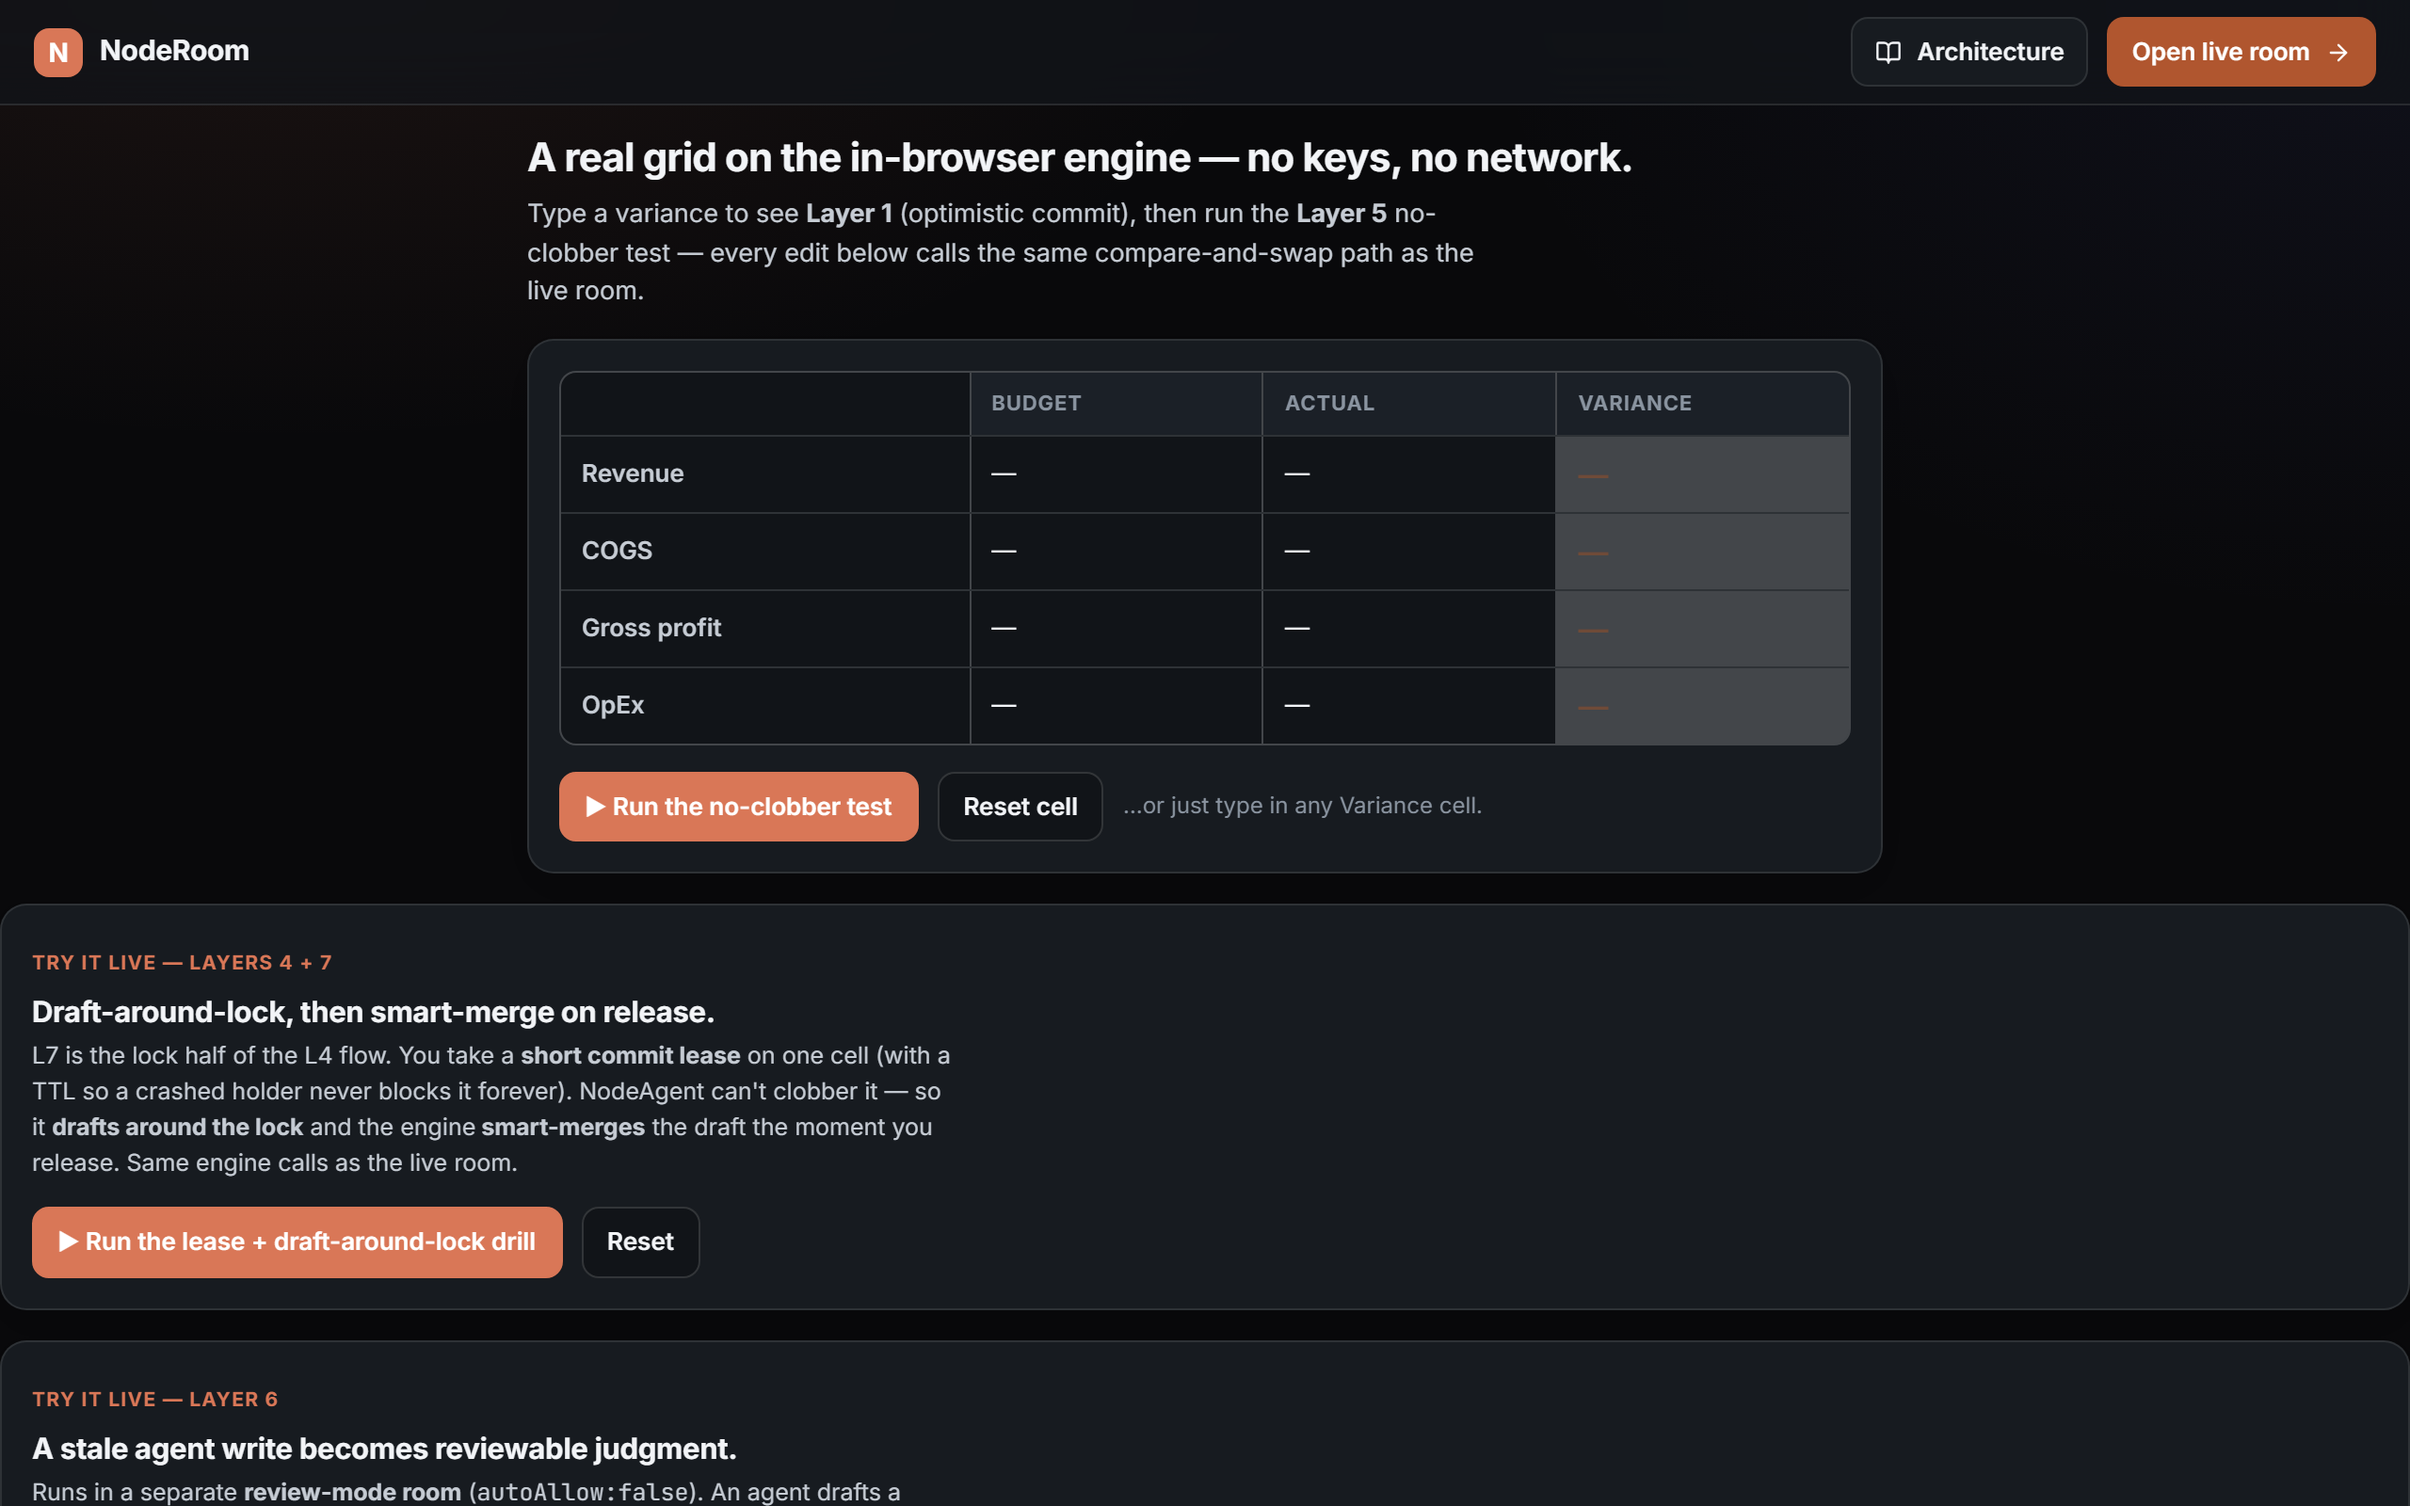
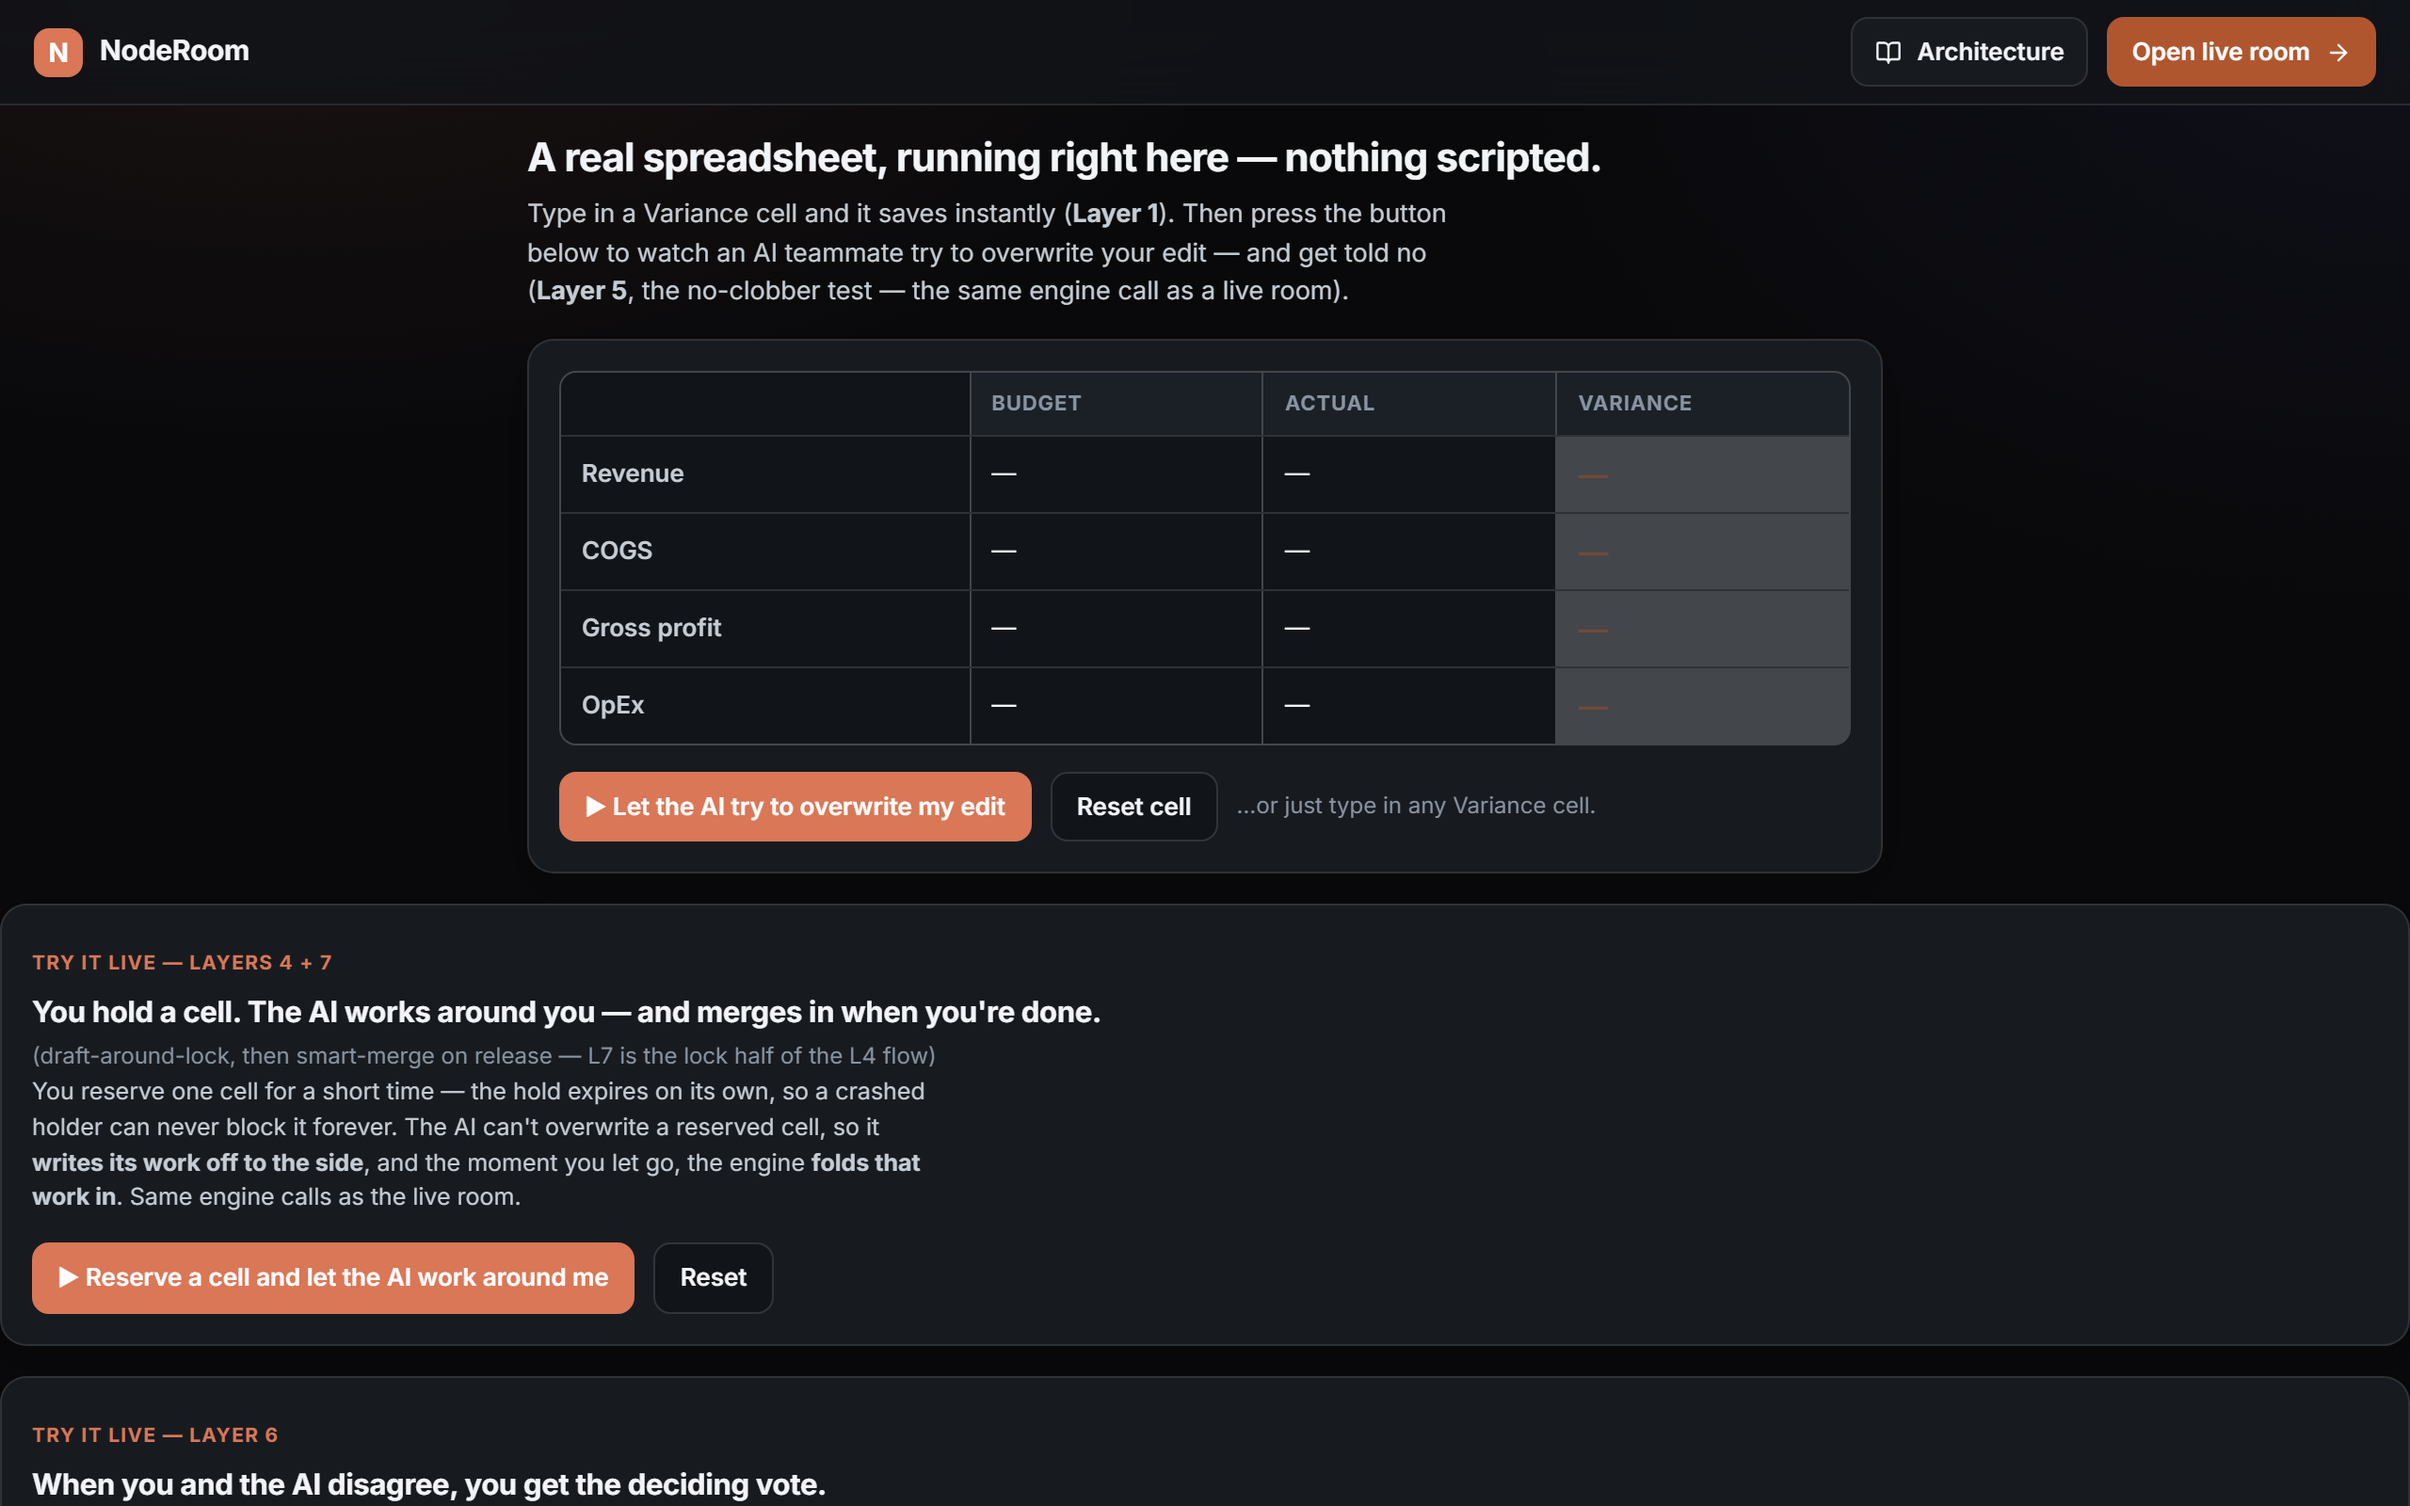
noderoom: mom passes — the chain from jargon to shippable, every link measured
The final loop: recaptured the walkthrough against noderoom's merged plain-words
copy, ran the three-gate pipeline, and the boundary-escalated judge returned

  craft 20/22 · comprehension 16/20 · mom PASSES (3-run majority)
  gate 1: -16.6 dB · gate 2: 97% of 75 distinct words heard · SHIPPABLE

Five cuts blocked before this one, and each block located the next lever:

  1  jargon captions            -> mom-words script       (persona 0->1, non-expert 0->1)
  2  jargon spoken aloud        -> explaining it changed nothing measurable
  3  voice swap                 -> changed nothing — not a delivery problem
  4  product button/log text    -> plain-words copy merged into noderoom
  5  one remaining token in the review chip
                                -> chip says it in words; the literal token
                                   stays in the step log, so the e2e assertion
                                   held without touching a test

The pass came from a product change the video layer could never make, which
five blocked cuts proved before any code in the product moved. The gate never
shipped an intermediate cut, and the thing that finally cleared it was words.

Mechanics that made the loop possible in one session:
  WT_ONLY=<id> on the capturer — one walkthrough recaptured against its own
  dev server without wiping the other walkthroughs' frames (the global wipe
  only runs on a full capture).
  Spec selectors updated to the renamed buttons BEFORE capturing, audited
[…]

diff --git a/src/walkthrough.data.js b/src/walkthrough.data.js
@@ -16,198 +16,62 @@ export const WALKTHROUGHS = [
         "caption": "If your team lives in a spreadsheet, this is for you: an AI helper that cannot wreck your numbers.",
         "cursor": null,
         "click": false,
-        "hold": 179
+        "hold": 168
       },
       {
         "img": "wt/NodeRoom/01.png",
         "caption": "You change one number. The AI checks it. Only that one cell changes — nothing else moves.",
         "cursor": null,
         "click": false,
-        "hold": 178
+        "hold": 157
       },
       {
         "img": "wt/NodeRoom/02.png",
-        "caption": "That button — the no-clobber test — just means: the AI tries to overwrite your edit, and gets told no. Your number stays yours.",
+        "caption": "Press the button: the AI tries to overwrite your edit — and gets told no.",
         "cursor": {
-          "x": 392,
+          "x": 422,
           "y": 428
         },
         "click": true,
-        "hold": 262
+        "hold": 136
       },
       {
         "img": "wt/NodeRoom/03.png",
         "caption": "When you and the AI disagree, you see both versions side by side. Nothing is lost.",
         "cursor": null,
         "click": false,
-        "hold": 167
+        "hold": 158
       },
       {
         "img": "wt/NodeRoom/04.png",
-        "caption": "Lock a cell while you think. On screen it is called draft-around-lock: the AI works around you and waits its turn.",
+        "caption": "Reserve a cell while you think. The AI works around you and waits its turn.",
         "cursor": null,
         "click": false,
-        "hold": 199
+        "hold": 130
       },
       {
         "img": "wt/NodeRoom/05.png",
-        "caption": "If the AI's copy is out of date, its change becomes a suggestion you approve — never a surprise.",
+        "caption": "A late AI edit becomes a suggestion you approve — never a surprise.",
         "cursor": null,
         "click": false,
-        "hold": 192
+        "hold": 125
       },
       {
         "img": "wt/NodeRoom/06.png",
         "caption": "You tap approve. The change lands on today's numbers, not yesterday's.",
         "cursor": {
           "x": 109,
-          "y": 748
+          "y": 644
         },
         "click": true,
-        "hold": 131
+        "hold": 120
       },
       {
         "img": "wt/NodeRoom/07.png",
         "caption": "Nothing changes your sheet without being seen first. That is the whole promise.",
         "cursor": null,
         "click": false,
-        "hold": 139
-      }
-    ]
-  },
-  {
-    "id": "NodeRoomFresh",
-    "title": "NodeRoom — from landing to a room",
-    "accent": "#E0653A",
-    "chromeUrl": "noderoom.app",
-    "scales": {
-      "action": 1,
-      "result": 1,
-      "open": 1
-    },
-    "steps": [
-      {
-        "img": "wt/NodeRoomFresh/00.png",
-        "caption": "A fresh visitor lands — a live agent room, source-backed, join by code",
-        "cursor": null,
-        "click": false,
-        "hold": 92
-      },
-      {
-        "img": "wt/NodeRoomFresh/01.png",
-        "caption": "Start a room",
-        "cursor": {
-          "x": 193,
-          "y": 570
-        },
-        "click": true,
-        "hold": 62
-      },
-      {
-        "img": "wt/NodeRoomFresh/02.png",
-        "caption": "One question before anything else: how should agent edits land?",
-        "cursor": null,
-        "click": false,
-        "hold": 106
-      },
-      {
-        "img": "wt/NodeRoomFresh/03.png",
-        "caption": "Or join with a code — a room shares a code, not a seat",
-        "cursor": null,
-        "click": false,
-        "hold": 88
-      },
-      {
-        "img": "wt/NodeRoomFresh/04.png",
-        "caption": "Try the sample",
-        "cursor": {
-          "x": 212,
-          "y": 560
-        },
-        "click": true,
-        "hold": 60
-      },
-      {
-        "img": "wt/NodeRoomFresh/05.png",
-        "caption": "The sample tells you it is synthetic — not live research",
-        "cursor": null,
-        "click": false,
-        "hold": 104
-      }
-    ]
-  },
-  {
-    "id": "NodeSlide",
-    "title": "NodeSlide — decks that stay editable",
-    "accent": "#3E6FF0",
-    "chromeUrl": "nodeslide.app",
-    "scales": {
-      "action": 1,
-      "result": 1,
-      "open": 1
-    },
-    "steps": [
-      {
-        "img": "wt/NodeSlide/00.png",
-        "caption": "Start from an idea, a spec, or evidence",
-        "cursor": {
-          "x": 640,
-          "y": 423
-        },
-        "click": false,
-        "hold": 74
-      },
-      {
-        "img": "wt/NodeSlide/01.png",
-        "caption": "A brief, not a template",
-        "cursor": null,
-        "click": false,
-        "hold": 78
-      },
-      {
-        "img": "wt/NodeSlide/02.png",
-        "caption": "Open the sample workspace",
-        "cursor": {
-          "x": 640,
-          "y": 694
-        },
-        "click": true,
-        "hold": 64
-      },
-      {
-        "img": "wt/NodeSlide/03.png",
-        "caption": "A real deck — outline rail, canvas, inspector",
-        "cursor": null,
-        "click": false,
-        "hold": 90
-      },
-      {
-        "img": "wt/NodeSlide/04.png",
-        "caption": "Every element is typed and addressable — not flattened to an image",
-        "cursor": null,
-        "click": false,
-        "hold": 92
-      },
-      {
-        "img": "wt/NodeSlide/05.png",
-        "caption": "Revisions you can compare and restore",
-        "cursor": null,
-        "click": false,
-        "hold": 88
-      },
-      {
-        "img": "wt/NodeSlide/06.png",
-        "caption": "Citations stay attached — and it states plainly it does not verify facts",
-        "cursor": null,
-        "click": false,
-        "hold": 96
-      },
-      {
-        "img": "wt/NodeSlide/07.png",
-        "caption": "One auditable run — and cost reads 'not recorded' rather than guessed",
-        "cursor": null,
-        "click": false,
-        "hold": 100
+        "hold": 127
       }
     ]
   }
